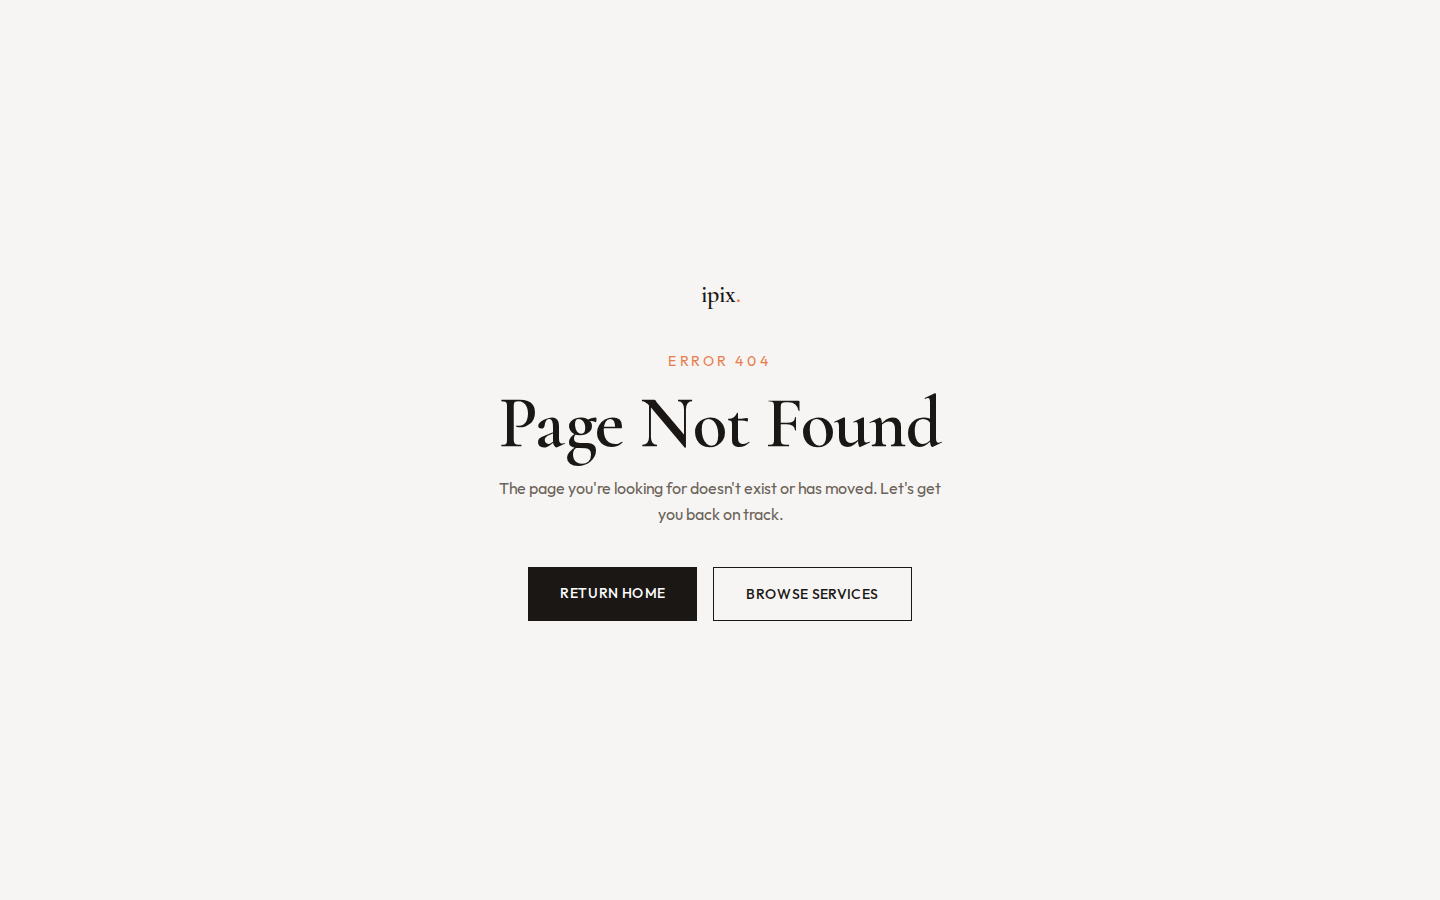
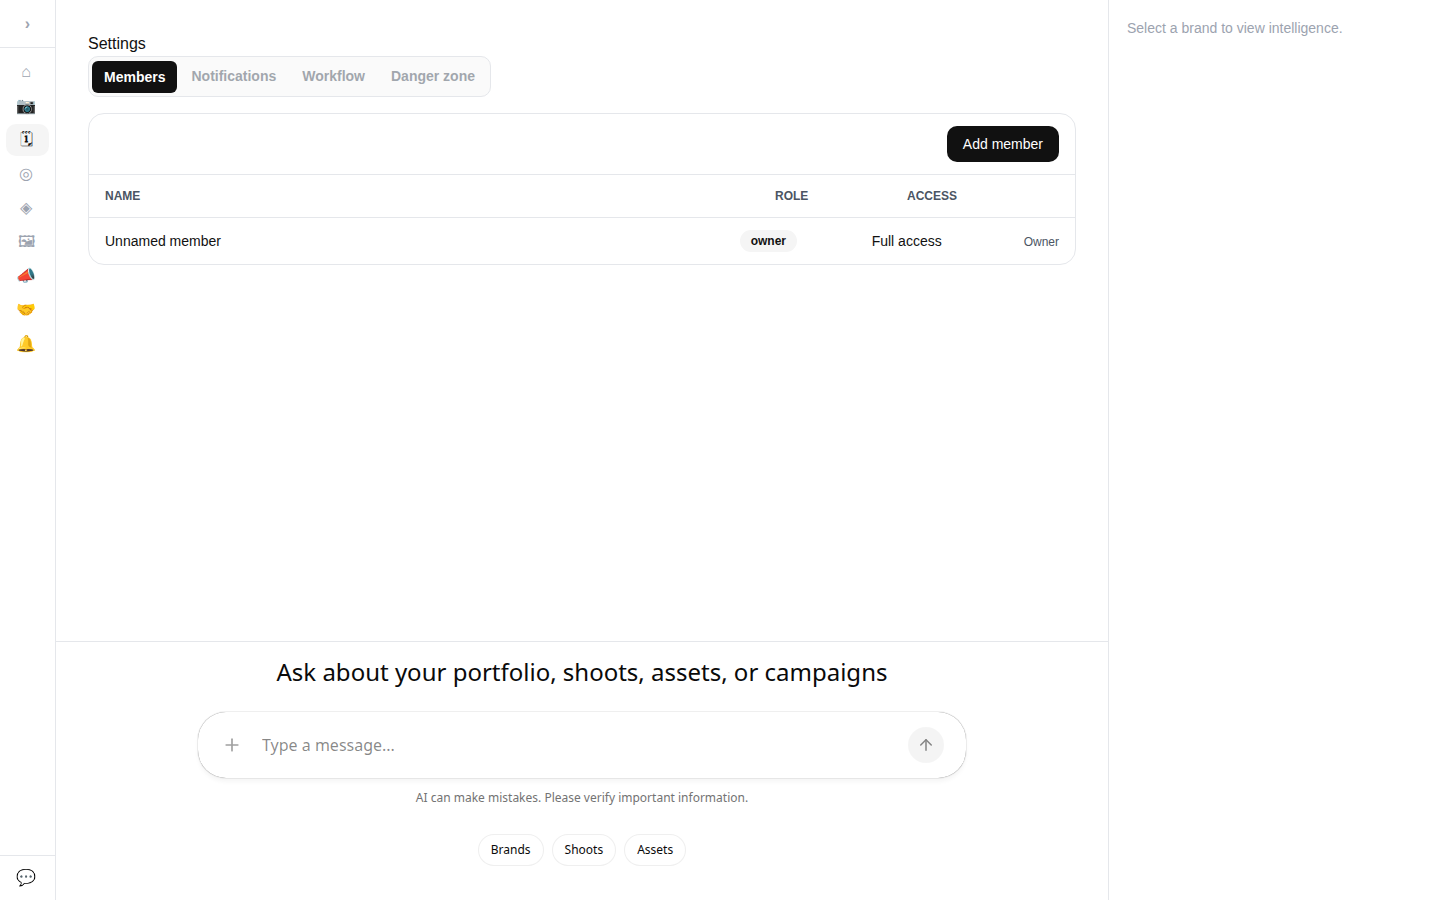
docs(ipi-542): correct Settings Members smoke on /settings route

diff --git a/tasks/design/planner/release/ipi-542-release-readiness-report.md b/tasks/design/planner/release/ipi-542-release-readiness-report.md
@@ -1,8 +1,8 @@
 # IPI-542 · PLN-REL-001 — Release readiness report
 
 **Issue:** [IPI-542 · PLN-REL-001 — Planner Staging Deployment, Rollback, and Production Verification](https://linear.app/amo100/issue/IPI-542)  
-**Report updated (UTC):** 2026-07-20T05:55:00Z  
-**Evidence base:** live Linear · `origin/main` @ `c640f01e` · staging Supabase `wtuhdynujhszsbwxlbdi` · Vercel Preview `release/ipi-542-staging` · Playwright desktop smoke + alias rollback  
+**Report updated (UTC):** 2026-07-20T06:10:00Z  
+**Evidence base:** live Linear · `origin/main` @ `c640f01e` · staging Supabase `wtuhdynujhszsbwxlbdi` · Vercel Preview `release/ipi-542-staging` · Playwright desktop smoke + alias rollback + Settings Members correct-route re-smoke  
 **Scope of this document:** docs / evidence only — **no production deploy, no production Supabase, no application code change in the evidence PR.**
 
 ---
@@ -11,12 +11,12 @@
 
 | Decision | Result |
 | --- | --- |
-| **Option A staging drill** | **GO** |
-| **IPI-542 Option A acceptance criteria** | **Complete after evidence PR #521 merges** |
+| **Option A staging drill** | **GO** (conditional on required CI green for PR #521) |
+| **IPI-542 Option A acceptance criteria** | **Complete after evidence PR #521 merges** (Settings Members correct-route smoke ✅) |
 | **Production release / cutover** | **NO-GO** — this result does **not** approve a production cutover |
 | **Readiness score** | **90 / 100** |
 
-Option A (desktop read-only Planner Phase 1) staging drill completed on a dedicated Vercel Preview branch and a separate Supabase staging project. Hub, Dashboard, Workspace shell, assignment visibility, and Vercel **website-only** rollback passed with disposable fixtures. CopilotKit Preview 503 is **outside** the reduced Planner gate. Database recovery requires a **new forward migration**; **never** revert **IPI-647 · PLN-SEC-002** assignment-aware RLS.
+Option A (desktop read-only Planner Phase 1) staging drill completed on a dedicated Vercel Preview branch and a separate Supabase staging project. Hub, Dashboard, Workspace shell, **Settings Members** (`/app/planner/[instanceId]/settings`), assignment visibility, and Vercel **website-only** rollback passed with disposable fixtures. CopilotKit Preview 503 is **outside** the reduced Planner gate. Database recovery requires a **new forward migration**; **never** revert **IPI-647 · PLN-SEC-002** assignment-aware RLS.
 
 ---
 
@@ -37,7 +37,7 @@ Verified in this drill:
 - Planner Hub
 - Planner Dashboard
 - Planner Workspace shell + empty view tabs
-- Planner Settings route presence (see smoke matrix note on Members path)
+- Planner Settings Members (`/app/planner/[instanceId]/settings`)
 - Assigned / unassigned visibility
 - Role / assignment permission behavior (**IPI-647 · PLN-SEC-002**)
 - **IPI-544** function-security migrations present on staging ledger (via full migration push)
@@ -142,7 +142,7 @@ Base: branch URL · smoke RC deploy `dpl_J1Gu4kVmwmGJrcQtqWnRkUjMFYJx` · SHA `e
 | 3 | Dashboard loads | ✅ `/app/planner/dashboard` |
 | 4 | Workspace shell opens | ✅ `/app/planner/{instanceId}` |
 | 5 | Empty view tabs switch | ✅ 4 tabs, no page errors |
-| 6 | Settings / Members | ⚠️ **Evidence correction:** harness first hit `/settings/members` (no such App Router page; only `/settings` exists for **IPI-577**). `05-settings-members.png` is a marketing **404**, not the Settings UI — false pass because harness accepted HTTP &lt; 500. Members UI was **not** screenshot-verified; Settings route code exists at `/app/planner/[instanceId]/settings`. Residual: re-smoke `/settings` only. |
+| 6 | Settings / Members | ✅ **Correct-route re-smoke 2026-07-20T06:08:52Z** — `/app/planner/{instanceId}/settings` loads Settings heading, Members tab, owner row (`05-settings-members.png`). Unassigned → Plan not found (`05b-settings-unassigned-denied.png`). Details: `settings-members-smoke.json`. Prior `/settings/members` 404 evidence superseded. |
 | 7 | Unassigned cannot see plan in Hub | ✅ hidden (`07-hub-unassigned.png` — 0 plans) |
 | 8 | Unassigned direct Workspace URL | ✅ enumeration-safe not-found pattern |
 | 9 | Staging Supabase traffic | ✅ `staging-host-probe.json` |
@@ -211,10 +211,10 @@ Evidence: `09-post-rollback-hub-*.png`, `post-rollback-smoke.json`.
 1. **IPI-680 GraphQL revoke migration** not replay-clean on empty projects — repaired forward for staging. Security outcome of **IPI-680 · SB-SEC-002** remains **Done**; do not reopen. Fresh-project compatibility is a separate follow-up.
 2. **`supabase:verify-rls`** not fully green on fresh staging (CRM convert-deal path lacks fixtures). Planner assignment RLS proven via dedicated fixtures + UI. Follow-up under **SB-TEST-003** (not a reopen of **IPI-668 · SB-TEST-001**).
 3. **CopilotKit 503** on Preview `/api/copilotkit` — **outside** reduced Planner gate; Planner Hub/Dashboard/Workspace remained usable.
-4. **Settings Members screenshot false positive** — see smoke matrix row 6.
-5. **Onboarding redirect** after login for disposable users — expected; operators still reached Planner routes.
-6. **Protection bypass secret** on Vercel project for automation — rotate/revoke when staging disposition says so.
-7. **Secret near-miss (local only):** an unpushed worktree checkpoint briefly staged `.local-staging-*` / `.local-vercel-*` files; commit was **hard-reset and never pushed**. Those paths are **not** on `origin` or in PR #521.
+4. **Onboarding redirect** after login for disposable users — expected; operators still reached Planner routes.
+5. **Protection bypass secret** on Vercel project for automation — rotate/revoke when staging disposition says so.
+6. **Secret near-miss (local only):** an unpushed worktree checkpoint briefly staged `.local-staging-*` / `.local-vercel-*` files; commit was **hard-reset and never pushed**. Those paths are **not** on `origin` or in PR #521.
+7. **CI note (PR #521):** `booking-gate` Model Gate failed once on `scripts/test-notification-reads-rls.sql` — `users_email_partial_key` duplicate for `ipi343-brand-<epoch>@test.local` (second-resolution stamp race / leftover). Unrelated to docs/evidence. Rerun in progress; if deterministic, track separately (do not fix in this PR).
 
 ---
 
@@ -223,8 +223,6 @@ Evidence: `09-post-rollback-hub-*.png`, `post-rollback-smoke.json`.
 - Staging Preview still shares non-Supabase Preview secrets (Gemini/Groq/etc.) with other Preview deploys — only Supabase URL/keys were branch-scoped.
 - Fresh staging DB lacks production edge-function wiring; not required for Option A read paths.
 - Phase 1.1 views/mutations/approvals still open — do not market as “full Planner Phase 1 complete.”
-- Settings Members UI needs a clean re-smoke against `/app/planner/{id}/settings` only.
-
 ---
 
 ## Residual follow-ups (tracking)
@@ -273,15 +271,17 @@ Evidence: `09-post-rollback-hub-*.png`, `post-rollback-smoke.json`.
 | Staging host probe | `…/evidence/ipi-542/staging-host-probe.json` | `wtuhdynujhszsbwxlbdi.supabase.co` |
 | Post-rollback smoke | `…/evidence/ipi-542/post-rollback-smoke.json` | assigned/unassigned + appLoaded |
 | Cleanup log | `…/evidence/ipi-542/cleanup.json` | fixtures deleted `2026-07-20T05:33:50Z` |
-| Screenshots | `…/evidence/ipi-542/*.png` | `05-*.png` is marketing 404 (see matrix) |
+| Screenshots | `…/evidence/ipi-542/*.png` | `05-settings-members.png` = correct Settings/Members; `05b-*.png` = unassigned deny |
+| Settings Members smoke | `…/evidence/ipi-542/settings-members-smoke.json` | Correct-route AC proof |
+| Settings fixture cleanup | `…/evidence/ipi-542/cleanup-settings-members.json` | Re-smoke fixtures deleted |
 
-**Not in git (local only):** `.env.staging.local`, `.local-staging-*`, `.local-vercel-bypass-*`, fixture passwords. **No** passwords, tokens, cookies, Authorization headers, service-role keys, or DB URLs in committed evidence.
+**Not in git (local only):** `.env.staging.local`, `.local-staging-*`, `.local-vercel-bypass-*`, fixture passwords, local smoke harness scripts. **No** passwords, tokens, cookies, Authorization headers, service-role keys, or DB URLs in committed evidence.
 
 ---
 
 ## Cleanup results
 
-Disposable staging fixtures (org, workflow, instance, tasks, assignments, both users) **deleted** — see `cleanup.json` (`cleanedAt: 2026-07-20T05:33:50.416Z`).
+Disposable staging fixtures (org, workflow, instance, tasks, assignments, both users) **deleted** — see `cleanup.json` (`cleanedAt: 2026-07-20T05:33:50.416Z`). Settings Members re-smoke fixtures deleted — see `cleanup-settings-members.json` (`cleanedAt: 2026-07-20T06:09:22.496Z`).
 
 ---
 
@@ -292,6 +292,6 @@ Disposable staging fixtures (org, workflow, instance, tasks, assignments, both u
 | IPI-526 Hub | ✅ exercised |
 | IPI-576 Dashboard | ✅ exercised (approvals stub OK for Option A) |
 | IPI-578 Workspace shell | ✅ exercised |
-| IPI-577 Settings Members | ⚠️ route exists at `/settings`; Members screenshot evidence invalid (404 path) |
+| IPI-577 Settings Members | ✅ exercised on `/app/planner/{id}/settings` (correct-route re-smoke) |
 | IPI-647 assignment RLS | ✅ exercised |
 | IPI-579/580/581/582/557/483 runtime | Deferred — remain open |